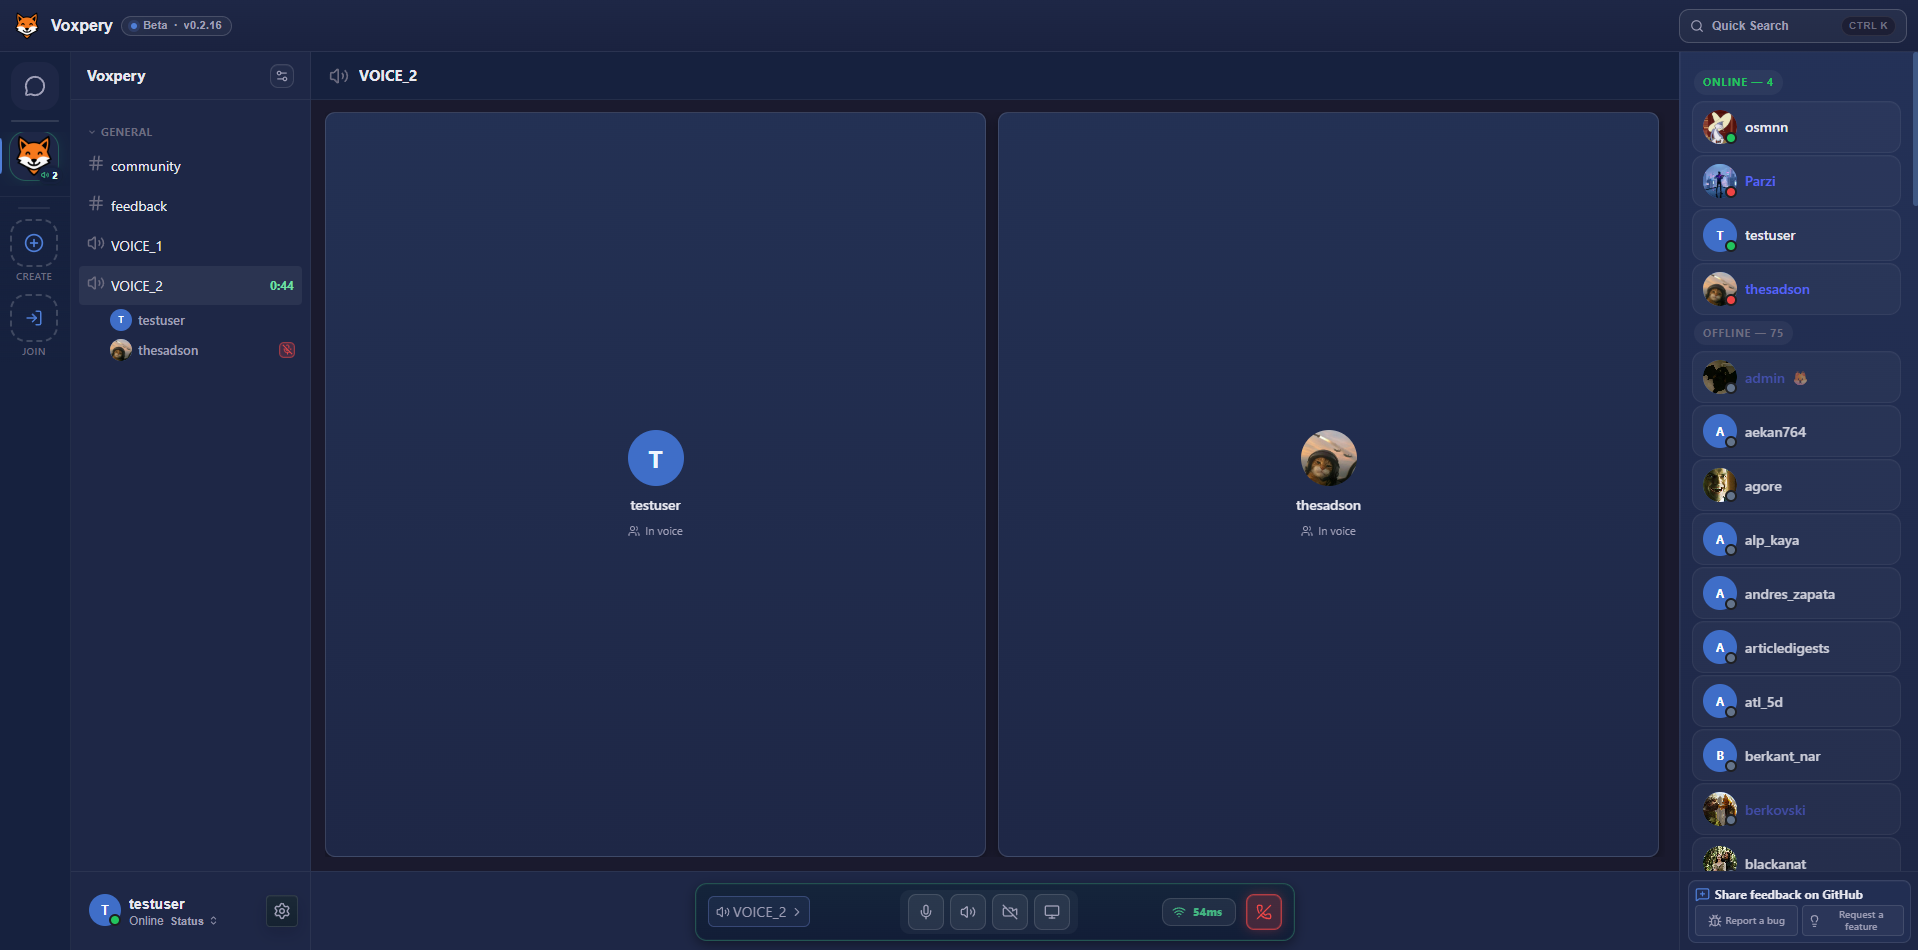
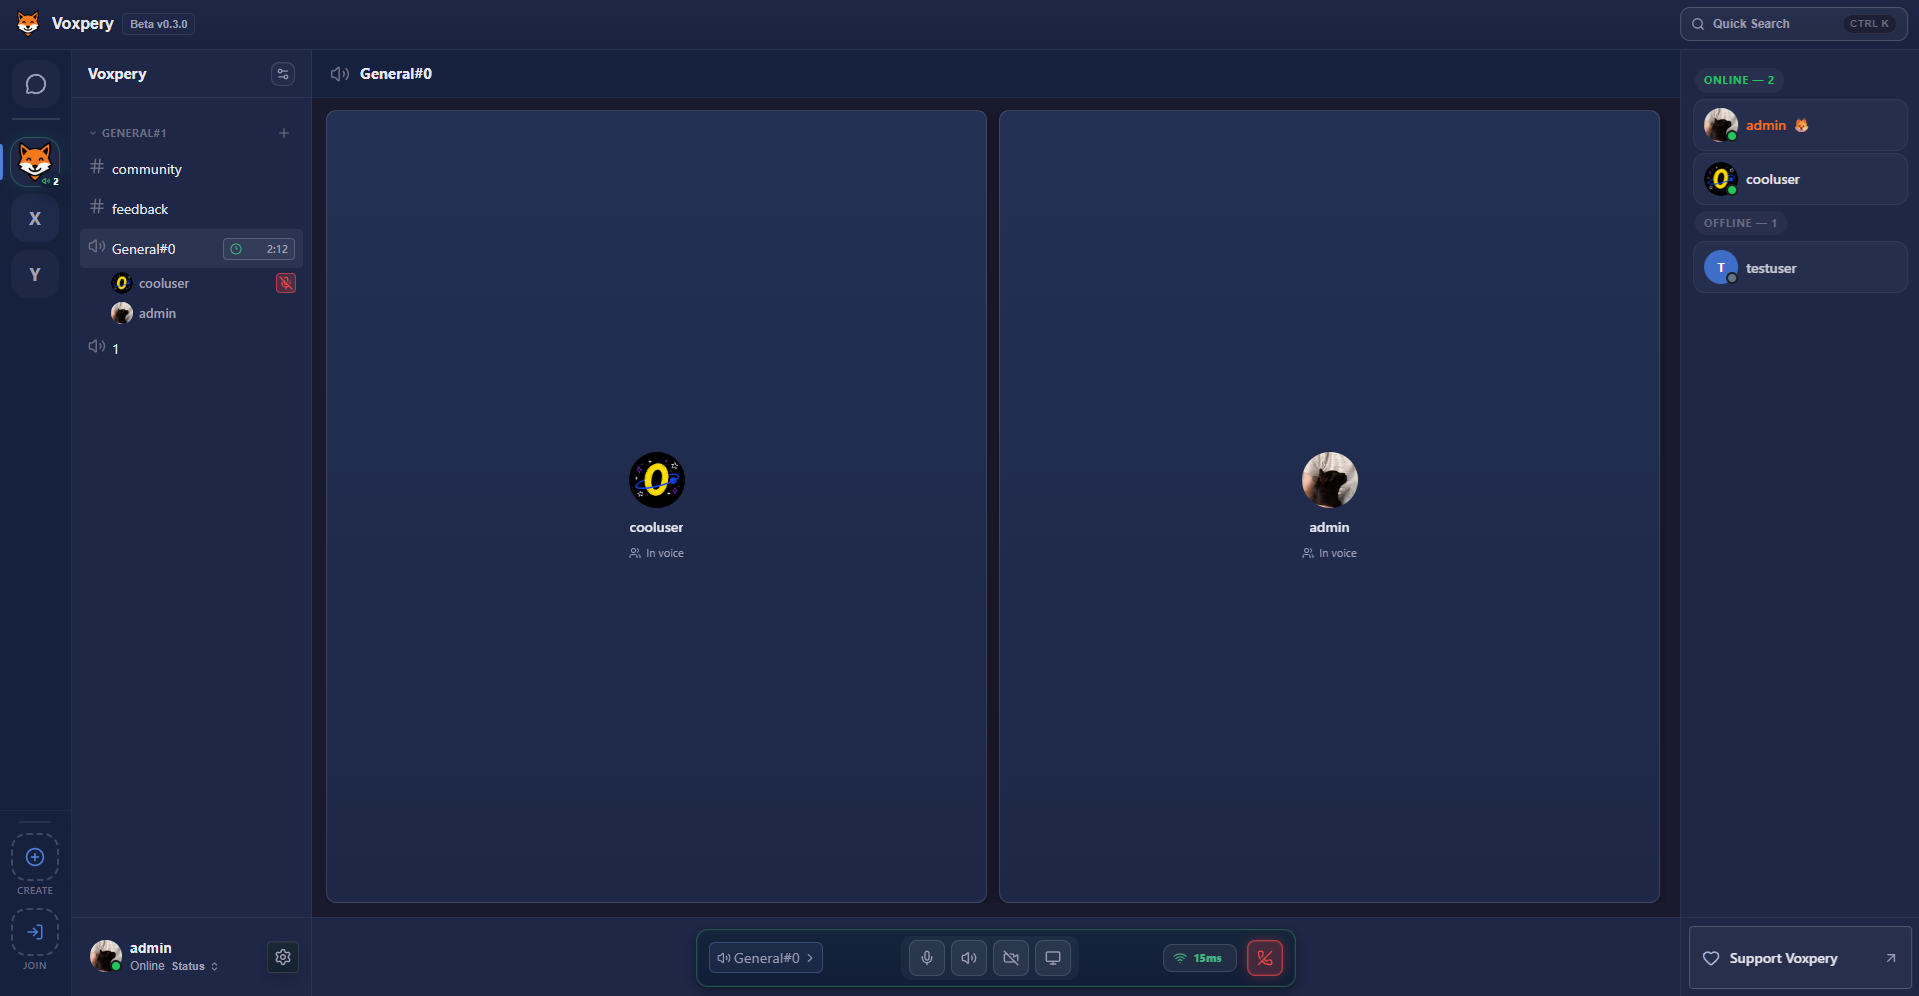
fix(ui): refresh Social dock and product preview

diff --git a/apps/web/src/index.css b/apps/web/src/index.css
@@ -8252,13 +8252,13 @@ body {
 }
 
 .social-nav-item {
-  width: 100%;
+  width: calc(100% - 16px);
   min-width: 0;
-  min-height: 36px;
-  margin-top: 8px;
-  border: none;
-  background: transparent;
-  color: var(--text-secondary);
+  min-height: 42px;
+  margin: 12px 8px 4px;
+  border: 1px solid var(--btn-secondary-border);
+  background: rgba(var(--ui-contrast-rgb), 0.03);
+  color: var(--text-primary);
   border-radius: var(--border-radius-sm);
   padding: 8px 10px;
   display: flex;
@@ -8270,6 +8270,7 @@ body {
   box-sizing: border-box;
   overflow: visible;
   line-height: 1.25;
+  font-weight: 600;
 }
 
 .social-nav-item svg {
@@ -8285,19 +8286,26 @@ body {
 }
 
 .social-nav-item:hover {
-  background: rgba(var(--ui-contrast-rgb), 0.05);
+  background: rgba(var(--ui-contrast-rgb), 0.07);
+  border-color: color-mix(in srgb, var(--accent-primary) 55%, var(--btn-secondary-border));
   color: var(--text-primary);
 }
 
 .social-nav-item.active {
-  background: color-mix(in srgb, var(--accent-primary) 18%, transparent);
+  background: var(--accent-soft);
+  border-color: color-mix(in srgb, var(--accent-primary) 65%, transparent);
   color: var(--text-primary);
+}
+
+.social-nav-item:focus-visible {
+  outline: 2px solid var(--accent-primary);
+  outline-offset: 2px;
 }
 
 .social-sidebar-divider {
   height: 1px;
   background: rgba(var(--ui-contrast-rgb), 0.08);
-  margin: 4px 0;
+  margin: 8px;
 }
 
 .social-sidebar-title {
@@ -8305,7 +8313,7 @@ body {
   align-items: center;
   justify-content: space-between;
   gap: 8px;
-  padding: 12px 8px 4px;
+  padding: 12px 12px 4px;
   color: var(--text-primary);
 }
 
@@ -8316,19 +8324,20 @@ body {
 }
 
 .social-dm-item {
-  width: 100%;
+  width: calc(100% - 16px);
+  min-width: 0;
+  margin: 0 8px;
   min-height: 46px;
   box-sizing: border-box;
   flex-shrink: 0;
   border: 1px solid var(--btn-secondary-border);
-  border-left-width: 3px;
   background: rgba(var(--ui-contrast-rgb), 0.02);
   color: var(--text-secondary);
   display: flex;
   align-items: center;
   gap: 4px;
-  padding: 4px 7px;
-  border-radius: var(--border-radius-sm);
+  padding: 4px 8px;
+  border-radius: 6px;
   text-align: left;
   cursor: default;
 }
@@ -8355,14 +8364,14 @@ body {
 }
 
 .social-dm-item+.social-dm-item {
-  margin-top: 2px;
+  margin-top: 5px;
 }
 
 .social-dm-group-label {
   display: flex;
   align-items: center;
   gap: 6px;
-  margin: 16px 8px 6px;
+  margin: 18px 12px 8px;
   color: var(--text-secondary);
   font-size: 12px;
   font-weight: 600;
@@ -8385,7 +8394,7 @@ body {
 .social-dm-item.active {
   background: var(--accent-soft);
   border-color: color-mix(in srgb, var(--accent-primary) 65%, transparent);
-  border-left-color: var(--accent-primary);
+  box-shadow: inset 2px 0 0 var(--accent-primary);
   color: var(--text-primary);
 }
 
@@ -8929,16 +8938,40 @@ body {
 }
 
 .social-dm-actions .home-member-action {
-  width: 24px;
-  height: 24px;
-  border-color: transparent;
-  background: transparent;
+  width: 28px;
+  height: 28px;
+  border: 1px solid var(--btn-secondary-border);
+  border-radius: 6px;
+  background: var(--bg-surface);
+  color: var(--text-secondary);
   opacity: 0;
+  pointer-events: none;
 }
 
 .social-dm-item:hover .home-member-action,
 .social-dm-item:focus-within .home-member-action {
   opacity: 1;
+  pointer-events: auto;
+}
+
+.social-dm-actions .home-member-action:hover {
+  background: var(--accent-soft);
+  color: var(--text-primary);
+  border-color: var(--accent-primary);
+}
+
+.social-dm-actions .home-member-action:focus-visible {
+  outline: 2px solid var(--accent-primary);
+  outline-offset: 2px;
+}
+
+@media (hover: none) {
+  .social-dm-actions .home-member-action {
+    opacity: 1;
+    pointer-events: auto;
+    width: 32px;
+    height: 32px;
+  }
 }
 
 .social-dm-open .home-member-meta>div {
@@ -16119,6 +16152,7 @@ textarea {
 
   .social-dm-actions .home-member-action {
     opacity: 1;
+    pointer-events: auto;
     width: 32px;
     height: 32px;
   }

diff --git a/apps/web/e2e/social-friend-core-regressions.spec.ts b/apps/web/e2e/social-friend-core-regressions.spec.ts
@@ -165,7 +165,7 @@ test.describe('mocked social friend UI regressions', () => {
   })
 
   for (const width of [1920, 390]) {
-    test(`keeps grouped DM rows compact and scrollable at ${width}px`, async ({ page }) => {
+    test(`keeps grouped DM rows compact and scrollable at ${width}px`, async ({ page }, testInfo) => {
       await page.setViewportSize({ width, height: width === 1920 ? 1080 : 844 })
       const channels = Array.from({ length: 32 }, (_, index) => ({
         id: `dm-layout-${index}`, peer_id: `peer-layout-${index}`,
@@ -183,6 +183,24 @@ test.describe('mocked social friend UI regressions', () => {
       await expect(sidebar.getByRole('heading', { name: 'Recent', exact: true })).toBeVisible()
       const row = sidebar.locator('.social-dm-item').first()
       expect((await row.boundingBox())!.height).toBe(46)
+      const hide = row.getByRole('button', { name: /^Hide DM with/ })
+      if (width === 1920) {
+        await page.locator('.social-sidebar-header').hover()
+        await expect(hide).toHaveCSS('opacity', '0')
+        await row.hover()
+      }
+      await expect(hide).toHaveCSS('opacity', '1')
+      await expect(hide).toHaveCSS('pointer-events', 'auto')
+      expect(await row.evaluate(element => {
+        const rowBounds = element.getBoundingClientRect()
+        const hideBounds = element.querySelector('.social-dm-close')!.getBoundingClientRect()
+        return hideBounds.right <= rowBounds.right + 1
+      })).toBe(true)
+      await row.locator('.social-dm-open').focus()
+      await page.keyboard.press('Tab')
+      await expect(hide).toBeFocused()
+      await expect(hide).toHaveCSS('outline-style', 'solid')
+      await sidebar.screenshot({ path: testInfo.outputPath('social-dock.png') })
       await expect(sidebar.locator('.social-sidebar-title')).toHaveText('Direct Messages')
       const header = (await sidebar.locator('.social-sidebar-header').boundingBox())!
       const friends = (await sidebar.getByRole('button', { name: 'Friends', exact: true }).boundingBox())!
@@ -197,6 +215,10 @@ test.describe('mocked social friend UI regressions', () => {
       await last.click({ button: 'right' })
       await expect(page.getByRole('menuitem', { name: 'Pin Conversation' })).toBeVisible()
       await page.keyboard.press('Escape')
+      const lastHide = sidebar.getByRole('button', { name: 'Hide DM with Contact 31', exact: true })
+      await last.hover()
+      await lastHide.click()
+      await expect(last).toHaveCount(0)
     })
   }
 

diff --git a/apps/web/e2e/release-settings-core-regressions.spec.ts b/apps/web/e2e/release-settings-core-regressions.spec.ts
@@ -734,7 +734,20 @@ test.describe('mocked release and settings regressions', () => {
       await page.locator('.home-page').screenshot({ path: testInfo.outputPath('social-outlines.png') })
       await openDm.press('Enter')
       await expect(row).toHaveClass(/active/)
-      await page.locator('.social-nav-item').click()
+      const friendsNav = page.locator('.social-nav-item')
+      const navBorder = await friendsNav.evaluate(border)
+      expect(navBorder.width).toBe('1px')
+      expect(navBorder.color).not.toBe('rgba(0, 0, 0, 0)')
+      const sidebarBox = (await page.locator('.social-sidebar').boundingBox())!
+      const rowBox = (await row.boundingBox())!
+      const navBox = (await friendsNav.boundingBox())!
+      expect(rowBox.width).toBeCloseTo(navBox.width, 0)
+      expect(rowBox.x - sidebarBox.x).toBeGreaterThanOrEqual(16)
+      expect(sidebarBox.x + sidebarBox.width - rowBox.x - rowBox.width).toBeGreaterThanOrEqual(16)
+      await friendsNav.focus()
+      await expect(friendsNav).toHaveCSS('outline-style', 'solid')
+      await friendsNav.press('Enter')
+      await expect(friendsNav).toHaveAttribute('aria-current', 'page')
       for (const width of [1920, 1100, 390, 320]) {
         await page.setViewportSize({ width, height: 844 })
         const filters = page.getByRole('group', { name: 'Friends filters' })

diff --git a/apps/web/e2e/mock-core-api.ts b/apps/web/e2e/mock-core-api.ts
@@ -1051,6 +1051,13 @@ async function handleMockApiRoute(route: Route, state: MockCoreState) {
     return
   }
 
+  const hideDmMatch = pathname.match(/^\/api\/dm\/channels\/([^/]+)\/hide$/)
+  if (hideDmMatch && method === 'POST') {
+    state.dmChannels = state.dmChannels.filter((channel) => channel.id !== hideDmMatch[1])
+    await json(route, {})
+    return
+  }
+
   const createDmMatch = pathname.match(/^\/api\/dm\/channels\/([^/]+)$/)
   if (createDmMatch && method === 'POST') {
     const peerId = createDmMatch[1]

diff --git a/apps/web/src/pages/HomePage.tsx b/apps/web/src/pages/HomePage.tsx
@@ -1251,6 +1251,7 @@ export default function HomePage({ isMessagesView = true }: { isMessagesView?: b
         <button
           type="button"
           className={`social-nav-item ${view === 'friends' ? 'active' : ''}`}
+          aria-current={view === 'friends' ? 'page' : undefined}
           onClick={() => {
             setView('friends')
             setPersistedSocialView('friends')

diff --git a/docs/RELEASE_SMOKE_TEST_CHECKLIST.md b/docs/RELEASE_SMOKE_TEST_CHECKLIST.md
@@ -106,6 +106,7 @@ For the final tag build, verify Docker images `voxpery/voxpery-server:v0.3.0` an
 - [ ] Signed-out `/` and signed-in `/about` show the landing page; signed-in `/` still opens the app. `/compare` opens directly and after refresh with its own title/canonical URL. All three public routes keep the same logo size and header alignment. `Open Voxpery` returns to the app and still enforces current legal acceptance. The desktop landing navigation fits without overflow, and the Contribute link opens the contribution guide.
 - [ ] At 1920x1080, 1366x768, and 1024x768, the full landing preview, actions, and legal footer fit without vertical scrolling or image cropping. Compare's default view also fits these desktop viewports with its complete table and footer. Expanded sources and shorter windows may scroll naturally. At 1023px and below, desktop installer/release links are absent and the browser entry is prominent; test 800x600, 390x844, and 320x568 with natural scrolling and usable compact navigation. Compare highlights Voxpery, preserves keyboard-scrollable comparison data, sources, and legal links, and makes no unsupported performance claims.
 - [ ] Inspect Social with pinned and recent DMs, unread counts and a long name: headings are readable, rows remain compact, the selected conversation is marked, and a long list scrolls without horizontal overflow. Pin/hide/context actions remain usable on desktop and touch layouts.
+- [ ] Verify the inset Friends navigation button is outlined even when inactive, has visible keyboard focus, and aligns with conversation rows. DM hide controls appear on hover or keyboard focus, stay visible on touch layouts, and hide only their conversation without opening it. Long names and unread counts do not overlap the controls or change row dimensions.
 - [ ] Compare Social's right panel, the server member panel, and the support footer in dark, light and custom themes: all use the same flat surface without a panel gradient or decorative shadow. Community, Star on GitHub, About and Support have matching lightly filled button surfaces, thin borders and hover/focus states. A trailing chevron marks Community and an outward arrow marks external links; only the leading star/heart icons have a subtle accent. Social's dock has no redundant brand heading. Check Support's entire row, including its padding, in Social and server views. Member rows retain their existing dimensions and interactions.
 - [ ] With enough servers to overflow the rail, move the pointer outside it: the scrollbar thumb is hidden. Hover, keyboard-focus an icon or drag a server: the thin thumb appears without moving icons. Wheel/keyboard scrolling, first/last reorder slots, active-voice outlines and fixed Social/Create/Join controls remain usable. A short server list has no unnecessary scrollbar.
 - [ ] Right-click a member, a DM and a voice participant, including your own voice row. Member/DM menus share a 224 px preferred width; voice menus start at the avatar and fit the remaining sidebar width. Menus open below the row when space permits, otherwise flip/scroll without covering it. Check long names, volume/move controls, permissions and Escape/focus restoration in short desktop and compact mobile layouts.

diff --git a/docs/CHANGELOG.md b/docs/CHANGELOG.md
@@ -17,6 +17,7 @@ This release is in preparation, not published. Further UI acceptance, real two-u
 - Added image/file draft cards with previews, file sizes, reduced-motion-aware upload activity, and retry/remove controls.
 
 ### Changed
+- Refreshed the Social dock with an outlined Friends navigation button, inset conversation rows, balanced section spacing, and theme-aware hover/keyboard-focus hide controls. Touch layouts keep hide actions visible without shifting usernames or unread badges.
 - Redesigned voice confirmations into distinct short sound families: rising/falling room melodies, low microphone taps, spaced deafen pulses, bright camera bells, and screen-share chords. Kept the existing sound-effects preference and local/remote event routing, with no downloaded audio assets.
 - Refreshed the shared DM, mention and message notification sound into one soft double tap, distinct from camera and voice controls, without changing notification eligibility, sound settings or do-not-disturb behavior.
 - Show GIF/sticker favorite stars on hover or keyboard focus instead of keeping saved stars visible while idle; touch devices retain direct favorite access.
